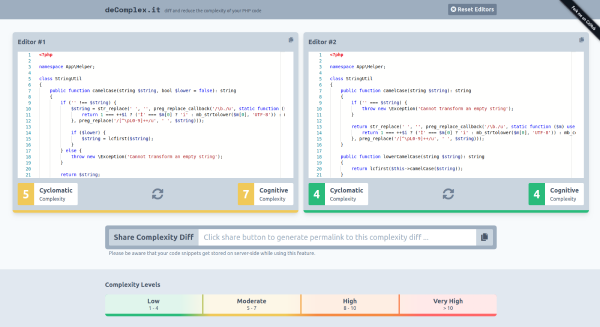
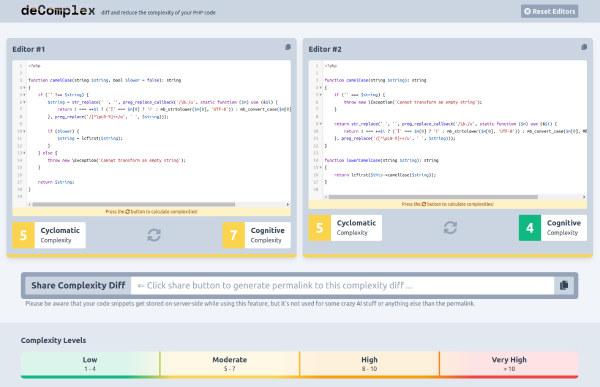
improving calculation ux incl error handling

diff --git a/assets/js/editor.js b/assets/js/editor.js
@@ -37,6 +37,7 @@ $.extend(Editor.prototype, {
         return this.editor.getValue();
     },
     handleRecalculate: function () {
+        this.waitingForCalculation();
         var self = this;
         $.ajax({
             method: 'POST',
@@ -53,9 +54,11 @@ $.extend(Editor.prototype, {
                     self.$wrapper.find('.js-cognitive-complexity'),
                     data.cognitive_complexity
                 );
+                self.$wrapper.removeClass('calculating');
             })
             .catch(function (jqXHR) {
-                let error = { value: 'X', level: 'very-high' };
+                let error = { value: 'X', level: 'error' };
+                self.setError(jqXHR.responseJSON);
                 self.setLevel(self.$wrapper, error.level);
                 self.replaceComplexity(
                     self.$wrapper.find('.js-cyclomatic-complexity'),
@@ -65,7 +68,14 @@ $.extend(Editor.prototype, {
                     self.$wrapper.find('.js-cognitive-complexity'),
                     error
                 );
+                self.$wrapper.removeClass('calculating');
             });
+    },
+    waitingForCalculation: function() {
+        this.$wrapper.addClass('calculating');
+        let waiting = { value: '?', level: this.$wrapper.data('complexity-level') };
+        this.replaceComplexity(this.$wrapper.find('.js-cyclomatic-complexity'), waiting);
+        this.replaceComplexity(this.$wrapper.find('.js-cognitive-complexity'), waiting);
     },
     replaceComplexity: function ($wrapper, data) {
         this.setLevel($wrapper, data.level);
@@ -77,5 +87,13 @@ $.extend(Editor.prototype, {
             .removeClass('complexity-level-' + oldLevel)
             .addClass('complexity-level-' + level)
             .data('complexity-level', level);
+    },
+    setError: function (errors) {
+        let $error = this.$wrapper.find('.code-error span');
+        if (undefined === errors || 0 === errors.length) {
+            $error.text('Looks like your code has a syntax error!');
+        } else {
+            $error.text(errors[0].message + ' (L:' +errors[0].line + ')');
+        }
     },
 });

diff --git a/assets/app.scss b/assets/app.scss
@@ -97,7 +97,8 @@ header {
     &.complexity-level-high {
         @apply border-yellow-500;
     }
-    &.complexity-level-very-high {
+    &.complexity-level-very-high,
+    &.complexity-level-error {
         @apply border-red-500;
     }
 
@@ -113,22 +114,42 @@ header {
     }
 
     .editor {
-        @apply bg-white w-full;
+        @apply bg-white w-full text-white;
     }
 
     .CodeMirror {
+        @apply rounded-tl rounded-tr;
         height: auto;
+    }
+
+    .code-comment, .code-error {
+        @apply px-2 py-1 text-center text-xs rounded-bl rounded-br;
+    }
+    .code-comment {
+        @apply bg-yellow-100 text-yellow-800;
+    }
+    .code-error {
+        @apply bg-red-100 text-red-900 hidden;
+    }
+    &.complexity-level-error {
+        .code-comment {
+            @apply hidden;
+        }
+        .code-error {
+            @apply block;
+        }
     }
 
     .metrics {
         @apply flex justify-between mt-4;
 
         .complexity-badge {
-            @apply inline-flex;
+            @apply transition inline-flex;
 
             .metric {
-                @apply text-white text-4xl font-bold py-2 px-4 rounded-l;
+                @apply text-white text-4xl text-center font-bold py-2 px-4 rounded-l;
                 line-height: 1.5;
+                width: 60px;
             }
             .complexity-level-none {
                 @apply bg-gray-400;
@@ -142,6 +163,7 @@ header {
             .complexity-level-high {
                 @apply bg-yellow-500;
             }
+            .complexity-level-error,
             .complexity-level-very-high {
                 @apply bg-red-500;
             }
@@ -156,10 +178,19 @@ header {
         }
 
         button {
-            @apply text-4xl text-gray-600 font-bold py-2 px-4 rounded;
+            @apply text-4xl text-gray-400 font-bold py-2 px-4;
         }
         button:hover {
             @apply text-gray-700;
+        }
+    }
+
+    &.calculating {
+        .complexity-badge {
+            @apply opacity-50;
+        }
+        button {
+            @apply opacity-0;
         }
     }
 }

diff --git a/assets/js/complexity-diff.js b/assets/js/complexity-diff.js
@@ -37,6 +37,10 @@ $.extend(ComplexityDiff.prototype, {
     handlePermalinkCopy: function () {
         let $input = $('.js-permalink-input');
         $input.select();
-        document.execCommand('copy');
+        if (!navigator.clipboard){
+            document.execCommand('copy');
+        } else{
+            navigator.clipboard.writeText($input.val());
+        }
     },
 });

diff --git a/src/DeComplex/ComplexityCalculator.php b/src/DeComplex/ComplexityCalculator.php
@@ -4,9 +4,10 @@ declare(strict_types=1);
 
 namespace App\DeComplex;
 
+use App\DeComplex\Exception\CalculationException;
+use App\DeComplex\Exception\ParserException;
 use App\Entity\Snippet;
 use App\Repository\SnippetRepository;
-use LogicException;
 use NdB\PhpDocCheck\Metrics\CognitiveComplexity;
 use NdB\PhpDocCheck\Metrics\CyclomaticComplexity;
 use PhpParser\ErrorHandler\Collecting;
@@ -36,8 +37,12 @@ final class ComplexityCalculator
         $errorCollection = new Collecting();
         $ast = $this->parser->parse($code, $errorCollection);
 
-        if (null === $ast || $errorCollection->hasErrors()) {
-            throw new LogicException('Unable to parse given source code');
+        if (null === $ast) {
+            throw new ParserException();
+        }
+
+        if ($errorCollection->hasErrors()) {
+            throw new CalculationException($errorCollection);
         }
 
         return new Snippet(

diff --git a/src/Controller/DeComplexController.php b/src/Controller/DeComplexController.php
@@ -6,6 +6,8 @@ namespace App\Controller;
 
 use App\DeComplex\CodeDiffer;
 use App\DeComplex\ComplexityCalculator;
+use App\DeComplex\Exception\CalculationException;
+use App\DeComplex\Exception\ParserException;
 use App\Entity\Diff;
 use Symfony\Bundle\FrameworkBundle\Controller\AbstractController;
 use Symfony\Component\HttpFoundation\JsonResponse;
@@ -36,8 +38,10 @@ final class DeComplexController extends AbstractController
 
         try {
             $snippet = $calculator->analyze($code);
-        } catch (\LogicException $exception) {
+        } catch (ParserException $exception) {
             throw new BadRequestHttpException($exception->getMessage(), $exception);
+        } catch (CalculationException $exception) {
+            return new JsonResponse($exception, 400);
         }
 
         return new JsonResponse($snippet);

diff --git a/src/DeComplex/Exception/CalculationException.php b/src/DeComplex/Exception/CalculationException.php
@@ -1,0 +1,29 @@
+<?php
+
+declare(strict_types=1);
+
+namespace App\DeComplex\Exception;
+
+use PhpParser\Error;
+use PhpParser\ErrorHandler\Collecting;
+
+final class CalculationException extends \DomainException implements \JsonSerializable
+{
+    public function __construct(public readonly Collecting $collecting)
+    {
+        parent::__construct('Unable to parse given source code');
+    }
+
+    /**
+     * @phpstan-return array<array{line: int, message: string}>
+     */
+    public function jsonSerialize(): array
+    {
+        return array_map(static function (Error $error) {
+            return [
+                'line' => $error->getEndLine(),
+                'message' => $error->getRawMessage(),
+            ];
+        }, $this->collecting->getErrors());
+    }
+}

diff --git a/src/DeComplex/Exception/ParserException.php b/src/DeComplex/Exception/ParserException.php
@@ -1,0 +1,9 @@
+<?php
+
+declare(strict_types=1);
+
+namespace App\DeComplex\Exception;
+
+final class ParserException extends \RuntimeException
+{
+}
